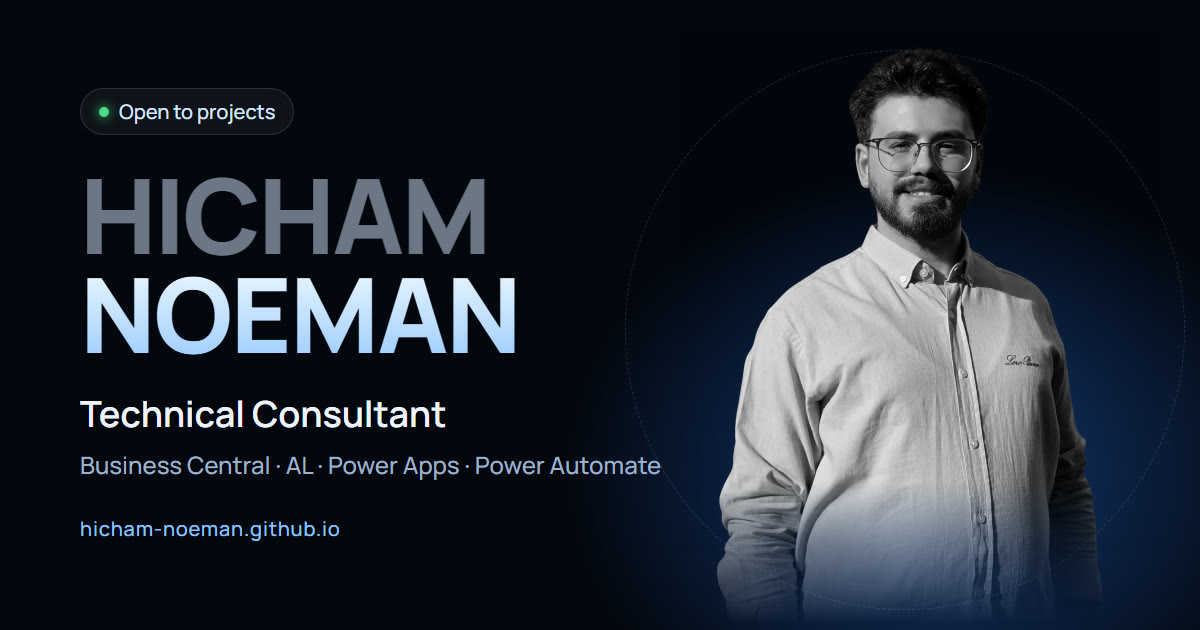
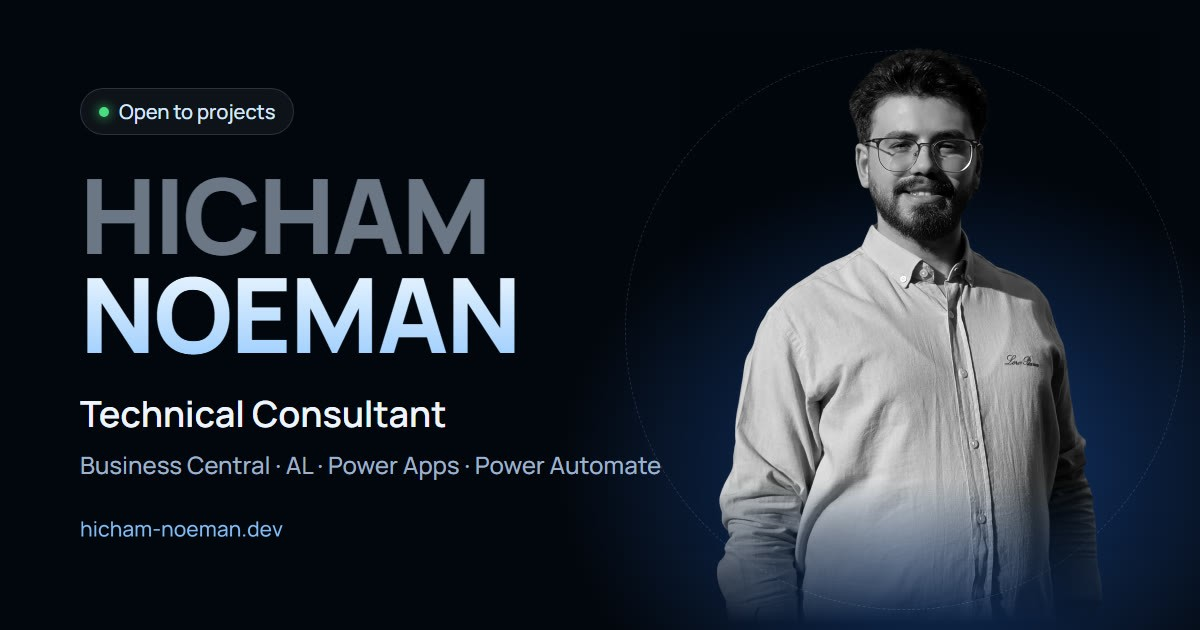
Update link preview image to show hicham-noeman.dev

diff --git a/ar/index.html b/ar/index.html
@@ -23,8 +23,8 @@
   <meta property="og:title" content="هشام نعمان — مستشار تقني">
   <meta property="og:description" content="حلول Microsoft Dynamics 365 Business Central باستخدام AL وPower Apps وPower Automate.">
   <!-- JPG under 300 KB: WhatsApp drops larger preview images. Bump ?v= when the image changes so apps refetch it. -->
-  <meta property="og:image" content="https://hicham-noeman.dev/images/og-image.jpg?v=3">
-  <meta property="og:image:secure_url" content="https://hicham-noeman.dev/images/og-image.jpg?v=3">
+  <meta property="og:image" content="https://hicham-noeman.dev/images/og-image.jpg?v=4">
+  <meta property="og:image:secure_url" content="https://hicham-noeman.dev/images/og-image.jpg?v=4">
   <meta property="og:image:type" content="image/jpeg">
   <meta property="og:image:width" content="1200">
   <meta property="og:image:height" content="630">
@@ -32,7 +32,7 @@
   <meta name="twitter:card" content="summary_large_image">
   <meta name="twitter:title" content="هشام نعمان — مستشار تقني">
   <meta name="twitter:description" content="حلول Microsoft Dynamics 365 Business Central باستخدام AL وPower Apps وPower Automate.">
-  <meta name="twitter:image" content="https://hicham-noeman.dev/images/og-image.jpg?v=3">
+  <meta name="twitter:image" content="https://hicham-noeman.dev/images/og-image.jpg?v=4">
   <script type="application/ld+json">
   {"@context": "https://schema.org", "@type": "FAQPage", "inLanguage": "ar", "mainEntity": [{"@type": "Question", "name": "هل يمكنك تخصيص Business Central دون التأثير على التحديثات المستقبلية؟", "acceptedAnswer": {"@type": "Answer", "text": "نعم. أبني التخصيصات كإضافات بلغة AL تعمل فوق النظام الأساسي بدلاً من تعديله، فلا تمحو تحديثات Microsoft تعديلاتك، وتبقى الترقيات سهلة الإدارة."}}, {"@type": "Question", "name": "هل يمكن ربط Business Central بالأدوات الأخرى التي نستخدمها؟", "acceptedAnswer": {"@type": "Answer", "text": "غالباً نعم. يربط Power Automate وPower Apps نظام Business Central بـ Microsoft 365 وTeams وOutlook — مثل الموافقات عبر Teams أو الإشعارات التلقائية بالبريد الإلكتروني. ويمكن ربط الأنظمة الأخرى عبر واجهات Business Central البرمجية (APIs)."}}, {"@type": "Question", "name": "هل تعمل عن بُعد؟", "acceptedAnswer": {"@type": "Answer", "text": "نعم. أقيم في طرابلس، لبنان، وأعمل حالياً عن بُعد مع ProService 365، وهي شركة مقرّها كندا. ورش العمل والعروض والدعم كلها تتم بسلاسة عبر الإنترنت."}}, {"@type": "Question", "name": "هل تقدّم الدعم بعد التشغيل؟", "acceptedAnswer": {"@type": "Answer", "text": "نعم. الدعم لا يتوقف عند الإطلاق: معالجة الأخطاء، مشاكل الأداء، التحسينات الصغيرة، وتدريب المستخدمين ليكون فريقك مرتاحاً في استخدام النظام."}}, {"@type": "Question", "name": "لسنا متأكدين مما نحتاجه. من أين نبدأ؟", "acceptedAnswer": {"@type": "Answer", "text": "بمحادثة قصيرة حول طريقة عمل مؤسستك اليوم وما الذي يبطئها. ومن هناك نحدد إن كان الحل الأنسب تعديلاً في الإعدادات، أو إضافة برمجية، أو أتمتة. راسلني عبر واتساب أو البريد الإلكتروني."}}]}
   </script>

diff --git a/index.html b/index.html
@@ -23,8 +23,8 @@
   <meta property="og:title" content="Hicham Noeman — Technical Consultant">
   <meta property="og:description" content="Microsoft Dynamics 365 Business Central solutions with AL, Power Apps and Power Automate.">
   <!-- JPG under 300 KB: WhatsApp drops larger preview images. Bump ?v= when the image changes so apps refetch it. -->
-  <meta property="og:image" content="https://hicham-noeman.dev/images/og-image.jpg?v=3">
-  <meta property="og:image:secure_url" content="https://hicham-noeman.dev/images/og-image.jpg?v=3">
+  <meta property="og:image" content="https://hicham-noeman.dev/images/og-image.jpg?v=4">
+  <meta property="og:image:secure_url" content="https://hicham-noeman.dev/images/og-image.jpg?v=4">
   <meta property="og:image:type" content="image/jpeg">
   <meta property="og:image:width" content="1200">
   <meta property="og:image:height" content="630">
@@ -32,7 +32,7 @@
   <meta name="twitter:card" content="summary_large_image">
   <meta name="twitter:title" content="Hicham Noeman — Technical Consultant">
   <meta name="twitter:description" content="Microsoft Dynamics 365 Business Central solutions with AL, Power Apps and Power Automate.">
-  <meta name="twitter:image" content="https://hicham-noeman.dev/images/og-image.jpg?v=3">
+  <meta name="twitter:image" content="https://hicham-noeman.dev/images/og-image.jpg?v=4">
   <script type="application/ld+json">
   {
     "@context": "https://schema.org",
